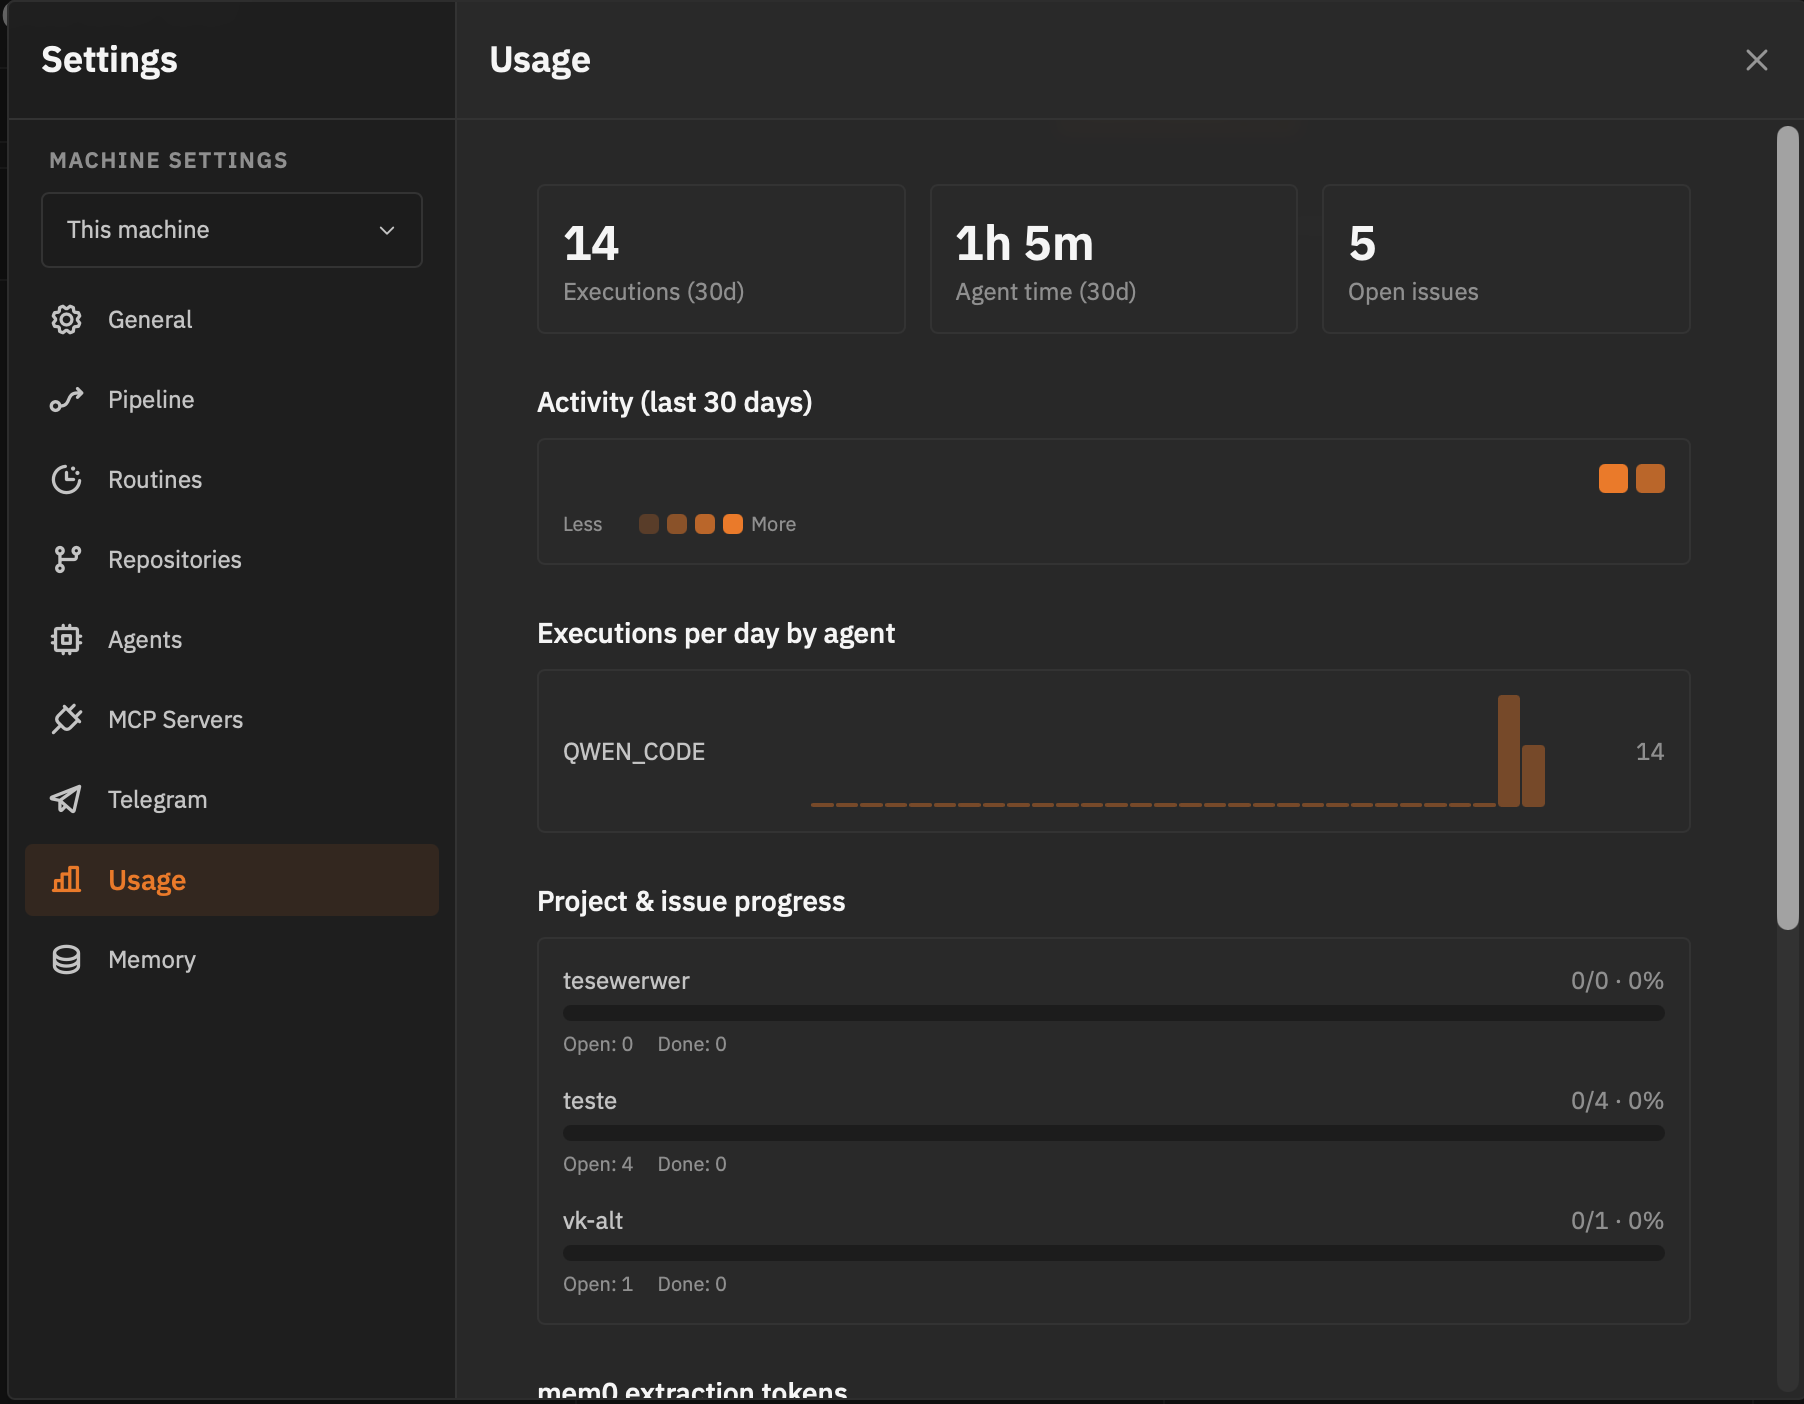
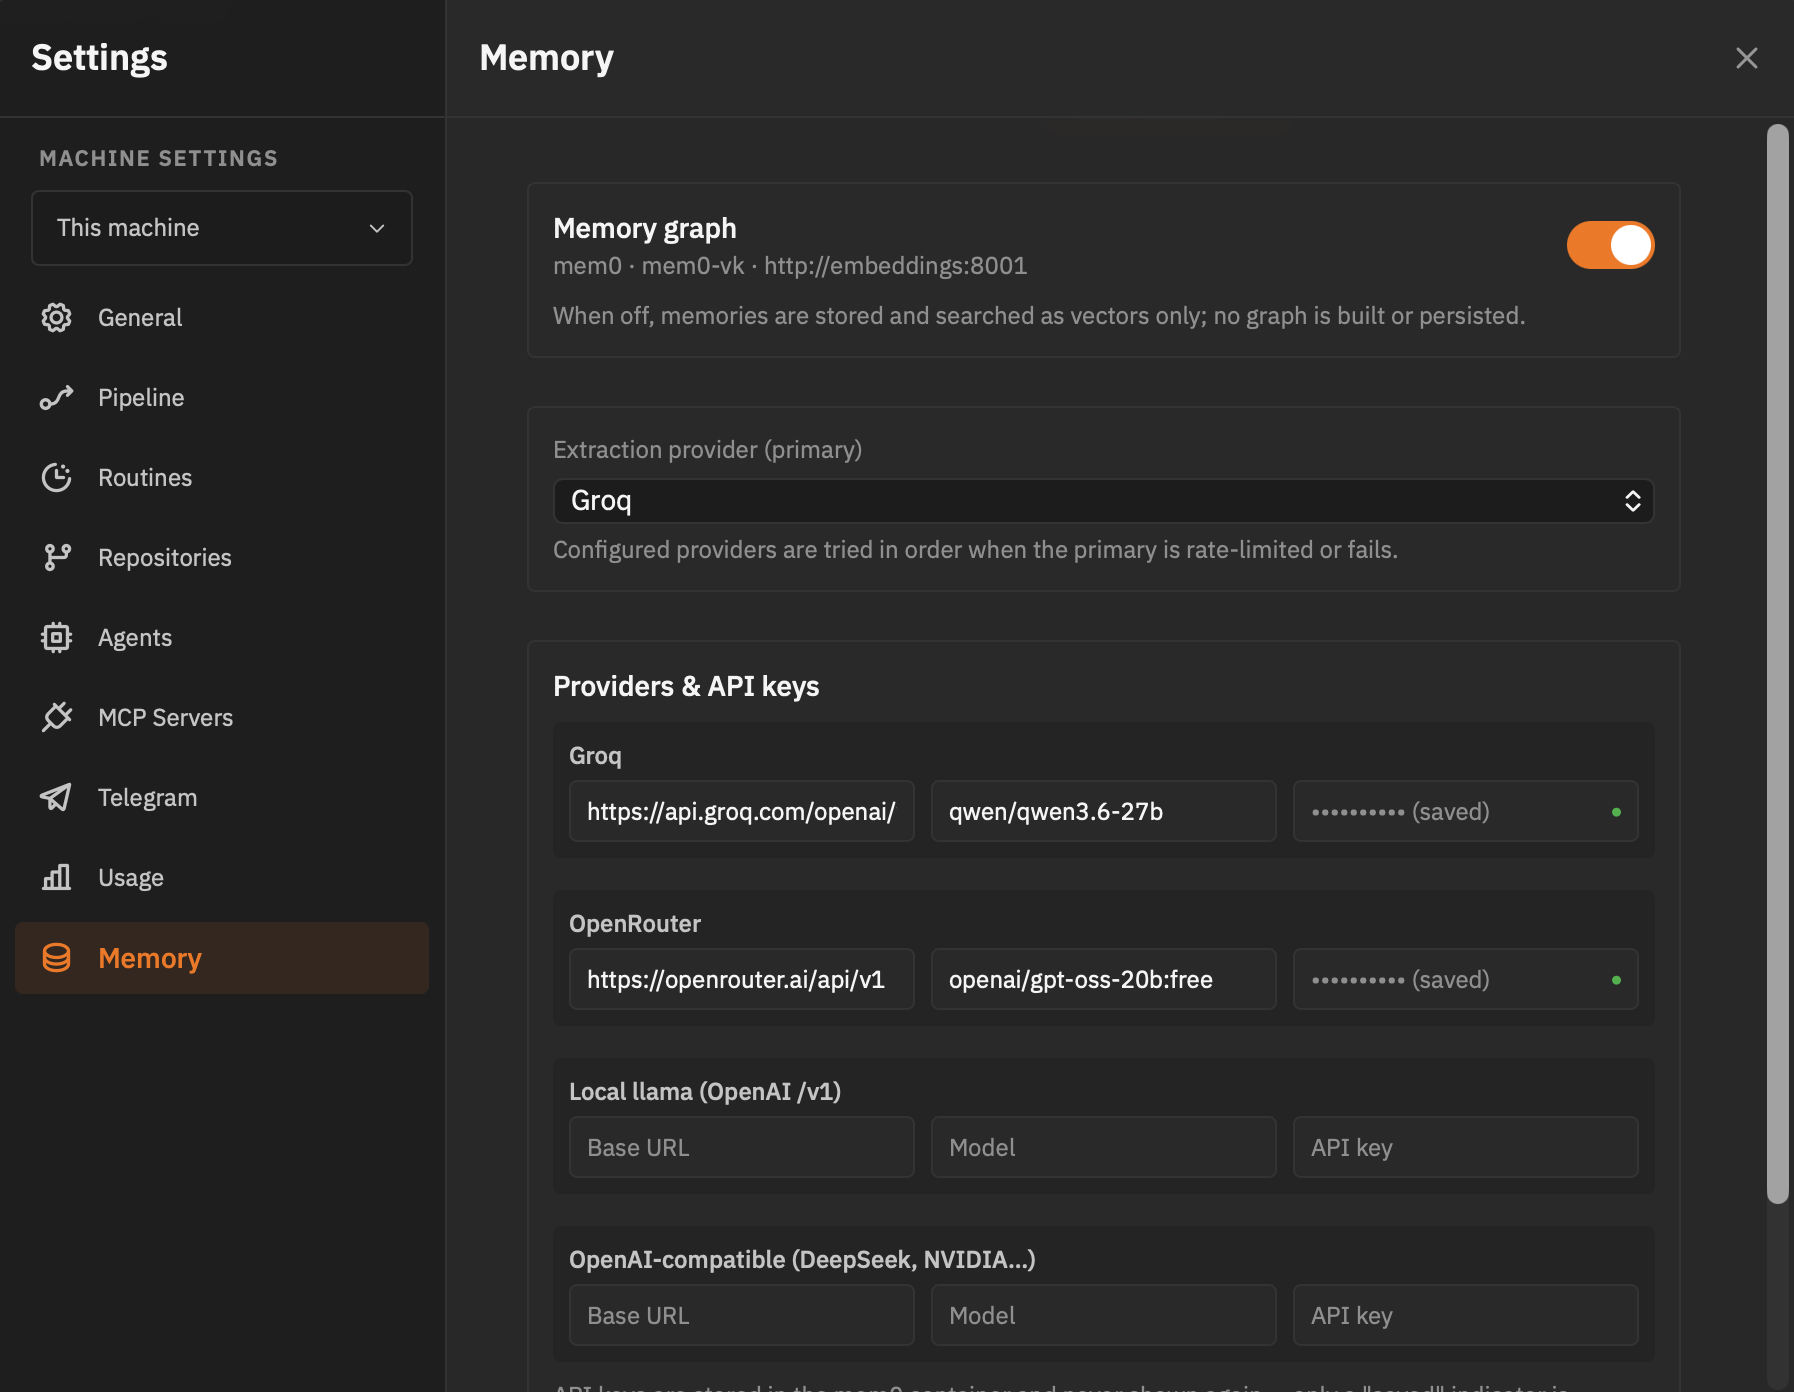
docs: fix README screenshots (usage/memory), move overview to top with updated project review

diff --git a/README.md b/README.md
@@ -78,16 +78,20 @@ You can have a board with a mix of GitHub and Gitea projects simultaneously — 
 
 ## Overview
 
-In a world where software engineers spend most of their time planning and reviewing coding agents, the most impactful way to ship more is to get faster at planning and review.
+Software engineering increasingly means **directing coding agents** — planning work, spawning a model to implement it, reviewing its diff, and shipping. The bottleneck is no longer typing code; it's orchestrating, reviewing, and keeping many agent sessions coherent. `vibe-kanban-alternative` is built to make that process fast, local, and *personal*: a single developer, entirely on their own machine, no team, no cloud, no account.
 
-`vibe-kanban-alternative` is built for this — for a single developer, running entirely on your own machine. Use kanban issues to plan work, then create workspaces where coding agents can execute.
+At its core it's a **kanban board that plans and tracks agent work**, plus a **workspace runtime** that turns each card into a real branch, terminal, and dev-server where any of 10+ coding agents (Claude Code, OpenCode, Qwen Code, Codex, Gemini CLI, Copilot, Amp, Cursor, Droid, CCR) executes the plan. On top of that sits a growing **single-developer cockpit**:
 
-- **Plan with kanban issues** — create, prioritise, and assign issues on a kanban board
-- **Run coding agents in workspaces** — each workspace gives an agent a branch, a terminal, and a dev server
-- **Review diffs and leave inline comments** — send feedback directly to the agent without leaving the UI
-- **Preview your app** — built-in browser with devtools, inspect mode, and device emulation
-- **Switch between 10+ coding agents** — Claude Code, Codex, Gemini CLI, GitHub Copilot, Amp, Cursor, OpenCode, Droid, CCR, and Qwen Code
-- **Create pull requests and merge** — open PRs with AI-generated descriptions, review on GitHub, and merge
+- **Plan with kanban issues** — boards, columns, priorities, tags, sub-issues, pipelines; cards are the single source of truth for a piece of work.
+- **Run coding agents in workspaces** — each card launches a workspace: a branch, a terminal, a dev server, and an agent following a configurable pipeline (Quick, Basic, async variants).
+- **Review diffs and iterate** — inline comments, diffs, preview browser, and the **manual-review stage** that pauses the agent and raises an alarm so you approve the result before any merge or PR.
+- **Switch between 10+ coding agents** — drive Claude Code, OpenCode, Qwen Code, Codex, Gemini, Copilot, Amp, Cursor, Droid, and CCR from one board.
+- **Cross-session project memory (mem0)** — agents recall and persist verified facts about the repositories they work in, keyed per repository and shared across CLIs, with a **graph memory** that survives restarts.
+- **Usage & observability** — a Settings → Usage dashboard with per-day activity, per-agent execution bars, extraction-token monitoring, and project progress.
+- **Workspaces, PRs, and merge** — dispatch work to existing sessions, open PRs (GitHub or Gitea/Forgejo) with AI-generated descriptions, squash-merge to base.
+- **Terminal & phone** — a [TUI cockpit](#terminal-ui-tui) and [Telegram escalation](#telegram-integration) keep you in control without the browser.
+
+It runs entirely locally (`npx vibe-kanban-alternative`), with a **Backup** section (Settings → Backup) to export and restore everything — database, settings, and the project-memory stack — so you never lose history when reinstalling or moving machines.
 
 ![](packages/public/vibe-kanban-screenshot-workspace.png)
 
